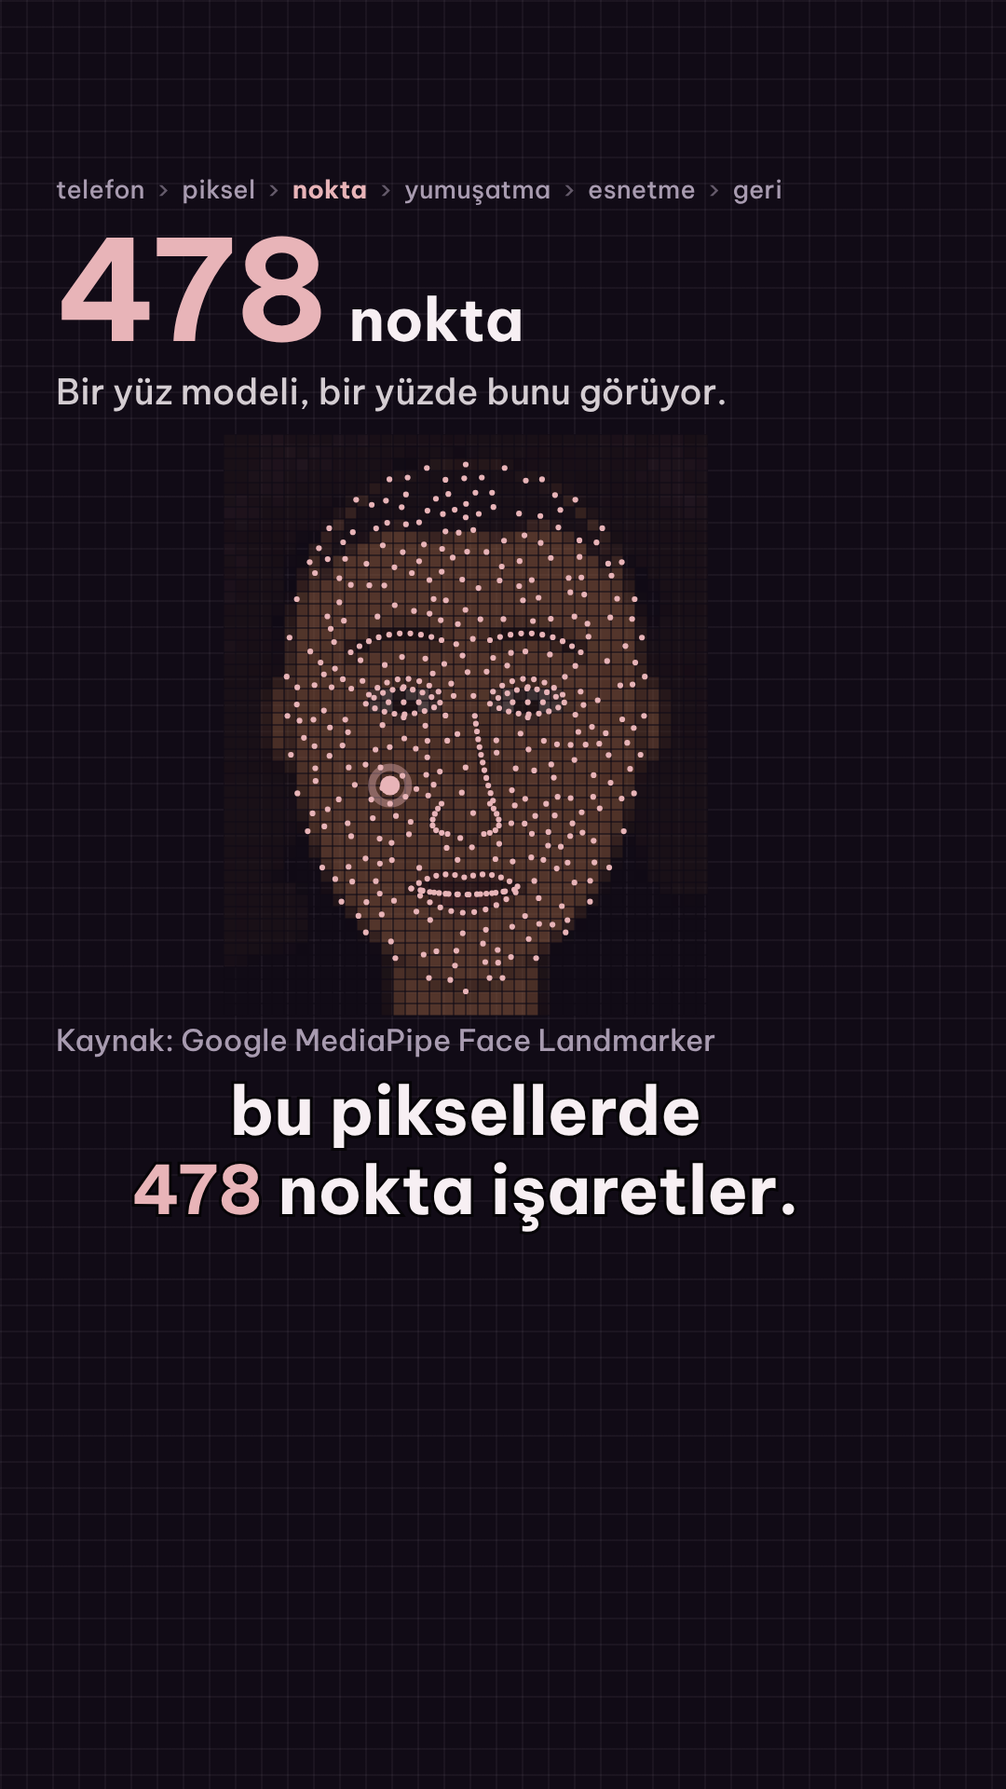
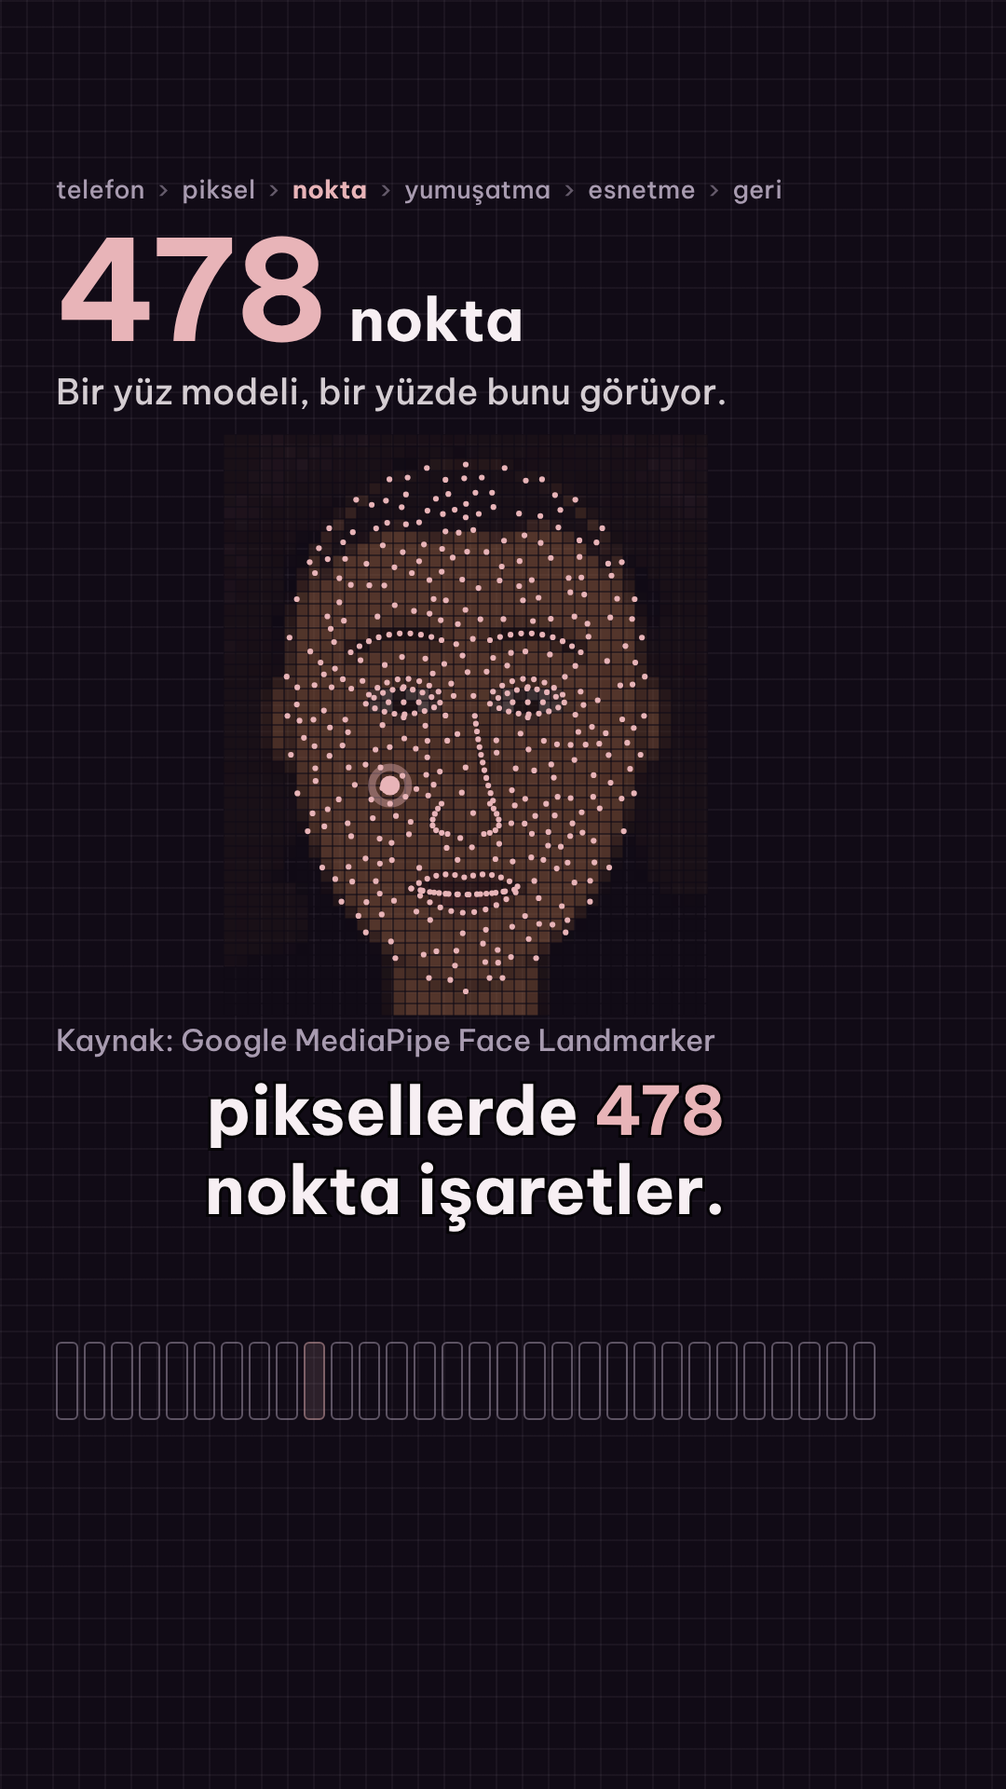
feat(ayna-arkasi): storyboard C
Claude-Session: https://claude.ai/code/session_01BhB2Bpc5Xr1WZ3L1qEmBGW

Changed region(s): [[0.1222, 0.5938, 0.7944, 0.6875], [0.0611, 0.75, 0.8556, 0.8125]]

diff --git a/channels/ayna-arkasi/brand/v2-yonler/src/page.html b/channels/ayna-arkasi/brand/v2-yonler/src/page.html
@@ -1,0 +1,143 @@
+<!doctype html>
+<html lang="tr">
+<head>
+<meta charset="utf-8">
+<title>Ayna Arkası — Yazı yönleri</title>
+<link rel="stylesheet" href="../fonts/fonts.css">
+<style>
+  :root {
+    --pink: #E8B4B8; --plum: #1C1424; --light: #F6E1E3; --berry: #8E3B5A;
+    --paper: #F4F1EE; --muted: rgba(28, 20, 36, .52);
+  }
+  * { box-sizing: border-box; margin: 0; padding: 0; }
+  html, body { background: var(--paper); color: var(--plum); }
+  body { font-family: 'Manrope Variable', sans-serif; -webkit-font-smoothing: antialiased;
+         font-kerning: normal; text-rendering: geometricPrecision; }
+
+  /* ---------- layout: board ---------- */
+  body.board { width: 3000px; height: 2200px; padding: 132px 160px 0; }
+  .board .head { display: flex; justify-content: space-between; align-items: baseline;
+                 font-size: 22px; font-weight: 500; letter-spacing: .01em; color: var(--muted);
+                 margin-bottom: 104px; }
+  .board .head b { font-weight: 600; color: var(--plum); }
+  .board .grid { display: grid; grid-template-columns: repeat(3, 840px); column-gap: 80px; row-gap: 130px; }
+  .board .card { width: 840px; }
+  .board .panels { display: grid; grid-template-rows: 330px 330px; row-gap: 12px; }
+
+  /* ---------- layout: single ---------- */
+  body.single { width: 1600px; height: 1000px; padding: 112px 96px 0; }
+  .single .panels { display: grid; grid-template-columns: 688px 688px; column-gap: 32px; height: 600px; }
+
+  .panel { position: relative; display: flex; align-items: center; justify-content: center; overflow: hidden; }
+  .panel.on-pink { background: var(--pink); color: var(--plum); }
+  .panel.on-plum { background: var(--plum); color: var(--pink); }
+
+  .meta { display: flex; justify-content: space-between; align-items: center; margin-top: 44px; height: 120px; }
+  .single .meta { margin-top: 72px; }
+  .label { font-size: 20px; line-height: 1.55; color: var(--muted); font-weight: 500; letter-spacing: .005em; }
+  .label .no { color: var(--plum); font-weight: 600; font-variant-numeric: tabular-nums; margin-right: 10px; }
+  .label .nm { color: var(--plum); font-weight: 600; }
+  .single .label { font-size: 19px; }
+  .avatars { display: flex; align-items: center; gap: 28px; }
+
+  .avatar { position: relative; border-radius: 50%; background: var(--pink); color: var(--plum);
+            display: flex; align-items: center; justify-content: center; overflow: hidden; }
+  .avatar.s120 { width: 120px; height: 120px; }
+  .avatar.s48 { width: 48px; height: 48px; }
+
+  /* ---------- wordmark core ---------- */
+  .wm { display: block; width: max-content; white-space: nowrap; line-height: 1;
+        letter-spacing: var(--ls, 0); margin-right: calc(-1 * var(--ls, 0)); }
+  .trim-cap { text-box: trim-both cap alphabetic; }
+  .trim-ex  { text-box: trim-both ex alphabetic; }
+
+  /* 01 Lüks minimal */
+  .d1, .a1 { font-family: 'Bodoni Moda Variable', serif; font-weight: 500; }
+  .d1 { --ls: .22em; font-variation-settings: 'opsz' 16; }
+  .a1 { font-variation-settings: 'opsz' 8; font-weight: 540; }
+
+  /* 02 Editoryal */
+  .d2, .a2 { font-family: 'Instrument Serif', serif; font-weight: 400; }
+  .d2 { --ls: -.012em; }
+  .d2 i, .a2 i { font-style: italic; }
+  .a2 { letter-spacing: -.04em; margin-right: .04em; }
+
+  /* 03 Modern sans */
+  .d3, .a3 { font-family: 'Manrope Variable', sans-serif; font-weight: 600; }
+  .d3 { --ls: -.036em; font-weight: 500; }
+  .a3 { font-weight: 500; }
+
+  /* 04 İmza */
+  .d4, .a4 { font-family: 'Allura', cursive; font-weight: 400; }
+  .d4 { --ls: 0em; }
+
+  /* 05 Monogram */
+  .d5 { display: flex; align-items: center; gap: .62em; font-family: 'Josefin Sans Variable', sans-serif; }
+  .d5 .ring { width: 2.05em; height: 2.05em; border-radius: 50%; border: .042em solid currentColor;
+              display: flex; align-items: center; justify-content: center; }
+  .aa { font-family: 'Josefin Sans Variable', sans-serif; font-weight: 300; letter-spacing: -.112em;
+        margin-right: -.112em; line-height: 1; text-box: trim-both cap alphabetic; display: block; }
+  .d5 .aa { font-size: .92em; }
+  .wm5 { font-size: .36em; font-weight: 400; letter-spacing: .34em; margin-right: -.34em;
+         line-height: 1; text-box: trim-both cap alphabetic; display: block; }
+  .a5 { font-family: 'Josefin Sans Variable', sans-serif; }
+  .avatar.ring5::after { content: ''; position: absolute; inset: 9%; border-radius: 50%;
+                         border: var(--rw) solid var(--plum); }
+
+  /* 06 Yumuşak çağdaş */
+  .d6, .a6 { font-family: 'Fraunces Variable', serif; font-weight: 600;
+             font-variation-settings: 'SOFT' 100, 'WONK' 0, 'opsz' 144; }
+  .a6 { font-weight: 620; }
+  .d6 { --ls: -.018em; }
+</style>
+</head>
+<body>
+<script src="directions.js"></script>
+<script>
+  const q = new URLSearchParams(location.search);
+  const single = q.get('d');
+  document.body.className = single ? 'single' : 'board';
+
+  const trimCls = t => t === 'cap' ? 'trim-cap' : t === 'ex' ? 'trim-ex' : '';
+
+  function card(d) {
+    const el = document.createElement('section');
+    el.className = 'card';
+    el.innerHTML = `
+      <div class="panels">
+        <div class="panel on-pink"><div class="wm ${d.cls} ${trimCls(d.trim)}" data-w="${d.width}">${d.html}</div></div>
+        <div class="panel on-plum"><div class="wm ${d.cls} ${trimCls(d.trim)}" data-w="${d.width}">${d.html}</div></div>
+      </div>
+      <div class="meta">
+        <div class="label"><span class="no">${d.no}</span><span class="nm">${d.name}</span><br>${d.font}</div>
+        <div class="avatars">
+          ${[120, 48].map(s => `<div class="avatar s${s} ${d.no === '05' ? 'ring5' : ''}" style="--rw:${Math.max(1, s * 0.016)}px">
+              <div class="wm ${d.avatar.cls} ${trimCls(d.avatar.trim)}" style="font-size:${s * d.avatar.size}px">${d.avatar.html}</div>
+            </div>`).join('')}
+        </div>
+      </div>`;
+    return el;
+  }
+
+  if (single) {
+    document.body.appendChild(card(DIRECTIONS[+single - 1]));
+  } else {
+    document.body.innerHTML += `<header class="head"><span><b>Ayna Arkası</b> &nbsp;·&nbsp; Logo yazı yönleri</span><span>v2 &nbsp;·&nbsp; 6 yön &nbsp;·&nbsp; Kasım 2026</span></header><div class="grid"></div>`;
+    const g = document.querySelector('.grid');
+    DIRECTIONS.forEach(d => g.appendChild(card(d)));
+  }
+
+  // Fit each wordmark to a share of its panel width (measured after fonts load).
+  document.fonts.ready.then(() => {
+    document.querySelectorAll('.panel .wm').forEach(wm => {
+      wm.style.fontSize = '100px';
+      const w = wm.getBoundingClientRect().width;
+      const boost = document.body.classList.contains('single') ? 1.1 : 1;
+      const target = wm.parentElement.clientWidth * parseFloat(wm.dataset.w) * boost;
+      wm.style.fontSize = (100 * target / w) + 'px';
+    });
+    document.body.dataset.ready = '1';
+  });
+</script>
+</body>
+</html>

diff --git a/channels/ayna-arkasi/videos/001-filtre/storyboards/C/src/sheet.html b/channels/ayna-arkasi/videos/001-filtre/storyboards/C/src/sheet.html
@@ -1,0 +1,50 @@
+<!doctype html><html lang="tr"><head><meta charset="utf-8"><title>C · storyboard</title>
+<link rel="stylesheet" href="../../../../../brand/brand.css">
+<style>
+*{box-sizing:border-box;margin:0;padding:0}
+body{width:2360px;background:var(--plum);color:var(--ink);font-family:"Be Vietnam Pro",sans-serif;padding:56px 40px 48px}
+h1{font:700 52px/1.2 "Be Vietnam Pro";margin-bottom:10px}
+h1 span{color:var(--toz-pembe)}
+.sub{font:500 28px/1.4 "Be Vietnam Pro";color:var(--muted);margin-bottom:40px}
+.sub b{color:var(--ink);font-weight:700}
+.row{display:flex;gap:40px}
+.col{width:540px}
+.col img{width:540px;height:960px;display:block;border-radius:18px;box-shadow:0 0 0 2px rgba(232,180,184,.25)}
+.num{display:flex;align-items:center;gap:14px;margin:24px 0 10px}
+.num i{font-style:normal;width:48px;height:48px;border-radius:50%;background:var(--toz-pembe);color:var(--plum);font:700 26px/48px "Be Vietnam Pro";text-align:center}
+.num span{font:700 30px "Be Vietnam Pro";color:var(--gold)}
+.t{font:700 32px/1.25 "Be Vietnam Pro";margin-bottom:10px}
+.w{font:500 24px/1.45 "Be Vietnam Pro";color:#D9CCDA;margin-bottom:14px;min-height:140px}
+.v{font:500 25px/1.45 "Be Vietnam Pro";color:var(--toz-pembe);border-left:4px solid var(--toz-pembe);padding-left:16px;margin-bottom:12px;min-height:150px}
+.v small{display:block;font:700 19px "Be Vietnam Pro";letter-spacing:.08em;color:var(--muted);margin-bottom:4px}
+.s{font:500 21px/1.4 "Be Vietnam Pro";color:var(--muted)}
+.foot{margin-top:40px;padding-top:24px;border-top:2px solid rgba(168,155,176,.25);font:500 23px/1.6 "Be Vietnam Pro";color:var(--muted)}
+.foot b{color:var(--ink)}
+</style></head><body>
+<h1>Ayna Arkası · 001 · Hikâye C: <span>"Bir selfie'nin 33 milisaniyesi"</span></h1>
+<div class="sub"><b>Sonsuz zoom:</b> telefon → piksel → nokta → yumuşatma → esnetme → geri · 1080×1920 · ~34 sn · tek toz pembe nokta her katmanda taşıyıcı · zemin: erik → koyu → açık toz pembe → erik</div>
+<div class="row">
+ <div class="col"><img src="../f1.png"><div class="num"><i>1</i><span>0:00–0:06 · kanca</span></div>
+  <div class="t">Telefon, selfie ve "33 ms"</div>
+  <div class="w">Telefon ekranında çizgi-portre. Köşede "33&nbsp;ms" rozeti belirir, yanaktaki toz pembe nokta zoom'un hedefini gösterir. Hesap satırı: bu bir ölçüm değil, aritmetik.</div>
+  <div class="v"><small>SESLENDİRME</small>"Saniyede 30 kare demek, her kare için yaklaşık 33 milisaniye demek. Filtre bütün işini bu sürenin içine sığdırmak zorunda."</div>
+  <div class="s">Ses: yok (ilk karede hareket: rozet + nokta nabzı)</div></div>
+ <div class="col"><img src="../f2.png"><div class="num"><i>2</i><span>0:08–0:15 · zoom 1–2</span></div>
+  <div class="t">Piksel dünyası → 478 nokta</div>
+  <div class="w">Kamera noktaya dalar. Selfie piksellere ayrılır, üstüne 478 toz pembe nokta yayılır, sayaç 0'dan 478'e koşar. Zemin bir ton koyulaşır.</div>
+  <div class="v"><small>SESLENDİRME</small>"Yakından bakalım: selfie aslında piksellerden oluşur. Bir yüz modeli bu piksellerde 478 nokta işaretler."</div>
+  <div class="s">Ses: whoosh-cinematic (piksele dalış) · kaynak: Google MediaPipe</div></div>
+ <div class="col"><img src="../f3.png"><div class="num"><i>3</i><span>0:16–0:25 · anahtar an</span></div>
+  <div class="t">Yumuşatma geçer, ızgara esner</div>
+  <div class="w">Zemin açık toz pembeye döner. Yumuşatma penceresi yanaktan geçer, arkasında doku kalmaz. Ardından ızgara göz çevresinde esner (nötr oklar, ödül efekti yok).</div>
+  <div class="v"><small>SESLENDİRME</small>"Küçük bir yumuşatma penceresi cildin üstünden geçer. Gözenekler, çiller, ince tüyler, hepsi silinir. Sonra noktalar kaydırılır, görüntü esner: gözler büyür, çene daralır."</div>
+  <div class="s">Ses: whoosh-cinematic (açık zemine geçiş) · kaynak: Tomasi &amp; Manduchi 1998; Schaefer vd. 2006; US 10152778</div></div>
+ <div class="col"><img src="../f4.png"><div class="num"><i>4</i><span>0:26–0:34 · geri çekilme</span></div>
+  <div class="t">Telefona dönüş, kanalın cümlesi</div>
+  <div class="w">Kamera telefona geri çekilir. Yüz filtresiz ve dokusuyla ("Filtresiz", nane). Alttaki 30 kare dolar. "Ayna Arkası" yazısı (logo yok, taslak).</div>
+  <div class="v"><small>SESLENDİRME</small>"Ve bunu saniyede 30 kez, her karede yeniden yapar. Filtredeki yüz, hesaplanmış bir yüz. Gerçek ciltte doku vardır, olmalı da."</div>
+  <div class="s">Ses: whoosh (geri) + chime · "Kaynaklar açıklamada"</div></div>
+</div>
+<div class="foot"><b>Uyum (UYUM-INCELEMESI C-1…C-6):</b> kanca düzeltildi, 33 ms ekranda "hesap" olarak yazılı · kanalın ana cümlesi kapanışta · "çekirdek" yerine "yumuşatma" · ışık/ten rengi adımı yok (G-03) · yüzler çizim, gerçek kişi ya da AI yüz yok (G-02) · uygulama adı yok · efekt toplam 4: 3 whoosh + 1 chime (04-kurgu) · zemin geçişleri ≥ 300 ms (O-9).<br>
+<b>Güvenli alan:</b> tüm yazı y 168–1330 ve x 60–940 içinde, sağ 140 px boş · 1330 altı yalnızca dekor (30 kare şeridi) · açık zeminde altyazı erik hap içinde (Kanal B kontur kuralına öneri).</div>
+</body></html>

diff --git a/channels/ayna-arkasi/videos/001-filtre/storyboards/C/src/f4.html b/channels/ayna-arkasi/videos/001-filtre/storyboards/C/src/f4.html
@@ -1,0 +1,28 @@
+<!doctype html><html lang="tr"><head><meta charset="utf-8"><title>C · f4 geri çekilme ve kapanış</title>
+<link rel="stylesheet" href="common.css"><script src="face.js"></script>
+<style>
+.line{position:absolute;left:60px;top:246px;width:880px;font:700 58px/1.2 "Be Vietnam Pro";color:var(--ink)}
+.line em{font-style:normal;color:var(--toz-pembe)}
+.trail{position:absolute;left:500px;top:655px;border:2px solid rgba(232,180,184,.16);border-radius:64px;transform:translate(-50%,-50%)}
+.phone{position:absolute;left:360px;top:420px;width:280px;height:470px;border-radius:44px;background:#0E0912;border:3px solid rgba(232,180,184,.5);box-shadow:0 30px 80px rgba(0,0,0,.5)}
+.screen{position:absolute;left:12px;top:12px;right:12px;bottom:12px;border-radius:34px;overflow:hidden;background:#2A2033}
+.notch{position:absolute;left:50%;top:10px;width:60px;height:16px;margin-left:-30px;border-radius:9px;background:#0E0912;z-index:3}
+.mint{position:absolute;left:24px;top:40px;z-index:4;font:700 24px "Be Vietnam Pro";color:var(--plum);background:var(--mint);padding:3px 12px 5px;border-radius:16px}
+.word{position:absolute;left:60px;top:930px;width:880px;text-align:center;font:700 104px/1.1 "Charm";color:var(--toz-pembe)}
+.more{position:absolute;left:60px;top:1074px;width:880px;text-align:center;font:500 32px "Be Vietnam Pro";color:var(--muted)}
+.shutter{position:absolute;left:50%;bottom:22px;width:46px;height:46px;margin-left:-23px;border-radius:50%;border:4px solid var(--ink);z-index:4;opacity:.9}
+.strip i{border-color:var(--toz-pembe)}
+</style></head><body><div class="frame">
+<div class="crumbs">telefon<i>›</i>piksel<i>›</i>nokta<i>›</i>yumuşatma<i>›</i>esnetme<i>›</i><b>geri</b></div>
+<div class="line">Saniyede <em>30 kez</em>,<br>her karede yeniden.</div>
+<div class="trail" style="width:400px;height:520px;border-color:rgba(232,180,184,.18)"></div>
+<div class="trail" style="width:336px;height:500px;border-color:rgba(232,180,184,.3)"></div>
+<div class="phone"><div class="screen" id="scr"></div><div class="notch"></div><div class="mint">Filtresiz</div><div class="shutter"></div></div>
+<div class="word">Ayna Arkası</div>
+<div class="more">Kaynaklar açıklamada</div>
+<div class="strip" id="strip"></div>
+<script>let h='';for(let i=0;i<30;i++)h+='<i class="cur"></i>';document.getElementById('strip').innerHTML=h;</script>
+<div class="cap"><div>Gerçek ciltte <span class="on">doku</span></div><div>vardır, olmalı da.</div></div>
+</div>
+<script>document.getElementById('scr').innerHTML=faceSVG({w:250,h:440,viewBox:'40 40 320 563',lineW:5,extra:'<circle cx="150" cy="284" r="9" fill="#E8B4B8"/><circle cx="150" cy="284" r="16" fill="none" stroke="#E8B4B8" stroke-opacity=".35" stroke-width="5"/>'});</script>
+</body></html>

diff --git a/channels/ayna-arkasi/videos/001-filtre/storyboards/C/src/f3.html b/channels/ayna-arkasi/videos/001-filtre/storyboards/C/src/f3.html
@@ -8,8 +8,7 @@ html,body,.frame{background:var(--toz-pembe-acik)}
 .lab{position:absolute;top:1004px;font:700 30px "Be Vietnam Pro";color:var(--berry)}
 .light .src{font-size:29px;line-height:1.3}
 .cap{-webkit-text-stroke:0;gap:0}
-.cap div{background:rgba(28,20,36,.92);padding:0 26px;border-radius:24px;line-height:1.12}
-.cap div:first-child{border-radius:24px 24px 0 0;padding-top:6px}.cap div:last-child{border-radius:0 0 24px 24px;padding-bottom:10px}
+.cap .pill{background:rgba(28,20,36,.92);padding:6px 34px 12px;border-radius:28px;line-height:1.14}
 .ring{position:absolute;inset:-60px;border:2px solid rgba(142,59,90,.18);border-radius:80px}
 </style></head><body><div class="frame light">
 <div class="crumbs">telefon<i>›</i>piksel<i>›</i>nokta<i>›</i><b>yumuşatma</b><i>›</i>esnetme<i>›</i>geri</div>
@@ -18,7 +17,9 @@ html,body,.frame{background:var(--toz-pembe-acik)}
 <div class="lab" style="left:60px">← doku silindi</div>
 <div class="lab" style="left:560px;width:380px;text-align:right">doku henüz duruyor →</div>
 <div class="src" style="top:1052px">Yumuşatma · Kaynak: Tomasi &amp; Manduchi 1998<br>Esnetme (warp) · Kaynak: Schaefer vd. 2006; US 10152778</div>
-<div class="cap"><div>ince tüyler,</div><div>hepsi <span class="on">silinir.</span></div></div>
+<div class="strip" id="strip"></div>
+<script>(function(n){let h="";for(let i=0;i<30;i++)h+="<i"+(i<=n&&i>=n?" class=\"cur\"":"")+"></i>";document.getElementById("strip").innerHTML=h})(17)</script>
+<div class="cap"><div class="pill">ince tüyler,<br>hepsi <span class="on">silinir.</span></div></div>
 </div>
 <script>
 const BX=166; // pencerenin geçtiği sınır (yüz koordinatı)

diff --git a/channels/ayna-arkasi/brand/v2-yonler/src/directions.js b/channels/ayna-arkasi/brand/v2-yonler/src/directions.js
@@ -12,8 +12,8 @@ const DIRECTIONS = [
   {
     no: '02', name: 'Editoryal', font: 'Instrument Serif',
     cls: 'd2', width: 0.64, trim: 'cap',
-    html: `Ayna <i>Arkası</i>`,
-    avatar: { html: 'A<i>a</i>', cls: 'a2', size: 0.56, trim: 'cap' },
+    html: `Ayna${k(" ", 0.07)}<i>Arkası</i>`,
+    avatar: { html: 'A<i>a</i>', cls: 'a2', size: 0.62, trim: 'cap' },
   },
   {
     no: '03', name: 'Modern sans', font: 'Manrope',
@@ -31,12 +31,12 @@ const DIRECTIONS = [
     no: '05', name: 'Monogram', font: 'Josefin Sans',
     cls: 'd5', width: 0.66, trim: 'none',
     html: `<span class="ring"><span class="aa">AA</span></span><span class="wm5">AYNA ARKASI</span>`,
-    avatar: { html: '<span class="aa">AA</span>', cls: 'a5', size: 0.40, trim: 'cap' },
+    avatar: { html: '<span class="aa">AA</span>', cls: 'a5', size: 0.44, trim: 'cap' },
   },
   {
     no: '06', name: 'Yumuşak çağdaş', font: 'Fraunces (Soft)',
-    cls: 'd6', width: 0.60, trim: 'ex',
-    html: `ayna arkası`,
-    avatar: { html: 'a', cls: 'a6', size: 0.66, trim: 'ex' },
+    cls: 'd6', width: 0.62, trim: 'cap',
+    html: `Ayna Arkası`,
+    avatar: { html: 'A', cls: 'a6', size: 0.56, trim: 'cap' },
   },
 ];

diff --git a/channels/ayna-arkasi/brand/v2-yonler/src/render.js b/channels/ayna-arkasi/brand/v2-yonler/src/render.js
@@ -1,0 +1,24 @@
+// Render: node render.js   (playwright gerekli; NODE_PATH ile verilebilir)
+const { chromium } = require('playwright');
+const path = require('path');
+
+const SRC = __dirname;
+const OUT = path.resolve(SRC, '..');
+const page = 'file://' + path.join(SRC, 'page.html');
+
+(async () => {
+  const browser = await chromium.launch();
+  const jobs = [{ q: '', out: 'yonler.png', w: 3000, h: 2200 }];
+  for (let i = 1; i <= 6; i++) jobs.push({ q: `?d=${i}`, out: `0${i}.png`, w: 1600, h: 1000 });
+  for (const j of jobs) {
+    const p = await browser.newPage({ viewport: { width: j.w, height: j.h }, deviceScaleFactor: 1 });
+    await p.goto(page + j.q);
+    await p.evaluate(() => document.fonts.ready);
+    await p.waitForFunction(() => document.body.dataset.ready === '1');
+    await p.waitForTimeout(200);
+    await p.screenshot({ path: path.join(OUT, j.out) });
+    await p.close();
+    console.log('ok', j.out);
+  }
+  await browser.close();
+})();

diff --git a/channels/ayna-arkasi/videos/001-filtre/storyboards/C/src/f2.html b/channels/ayna-arkasi/videos/001-filtre/storyboards/C/src/f2.html
@@ -17,7 +17,9 @@ html,body,.frame{background:#110B16}
 <div class="sub">Bir yüz modeli, bir yüzde bunu görüyor.</div>
 <div class="stage"><canvas id="px" width="520" height="624"></canvas><svg id="pts" viewBox="40 52 320 384"></svg></div>
 <div class="src" style="top:1096px">Kaynak: Google MediaPipe Face Landmarker</div>
-<div class="cap"><div>bu piksellerde</div><div><span class="on">478</span> nokta işaretler.</div></div>
+<div class="strip" id="strip"></div>
+<script>(function(n){let h="";for(let i=0;i<30;i++)h+="<i"+(i<=n&&i>=n?" class=\"cur\"":"")+"></i>";document.getElementById("strip").innerHTML=h})(9)</script>
+<div class="cap"><div>piksellerde <span class="on">478</span></div><div>nokta işaretler.</div></div>
 </div>
 <script>
 const VB=[40,52,320,384];

diff --git a/channels/ayna-arkasi/videos/001-filtre/storyboards/C/src/f1.html b/channels/ayna-arkasi/videos/001-filtre/storyboards/C/src/f1.html
@@ -15,9 +15,6 @@
 .reticle::before,.reticle::after{content:"";position:absolute;background:var(--toz-pembe)}
 .zoomhint{position:absolute;left:520px;top:900px;width:0;height:0}
 .ticks{position:absolute;left:60px;top:1110px;width:880px;height:0}
-.strip{position:absolute;left:60px;top:1440px;width:880px;display:flex;gap:6px;opacity:.5}
-.strip i{flex:1;height:84px;border:2px solid var(--muted);border-radius:6px}
-.strip i.cur{border-color:var(--toz-pembe);background:rgba(232,180,184,.25)}
 .striplab{position:absolute;left:60px;top:1540px;font:500 26px "Be Vietnam Pro";color:var(--muted);opacity:.6}
 </style></head><body><div class="frame">
 <div class="crumbs"><b>telefon</b><i>›</i>piksel<i>›</i>nokta<i>›</i>yumuşatma<i>›</i>esnetme<i>›</i>geri</div>

diff --git a/channels/ayna-arkasi/videos/001-filtre/storyboards/C/src/common.css b/channels/ayna-arkasi/videos/001-filtre/storyboards/C/src/common.css
@@ -21,3 +21,7 @@ html,body{width:1080px;height:1920px;overflow:hidden;background:var(--plum)}
 .guides{position:absolute;inset:0;pointer-events:none}
 .guides .band{position:absolute;left:0;right:0;top:168px;height:1162px;outline:2px dashed #0f0}
 .guides .rail{position:absolute;right:0;top:0;width:140px;height:1920px;background:rgba(255,0,0,.18)}
+.strip{position:absolute;left:60px;top:1440px;width:880px;display:flex;gap:6px;opacity:.5}
+.strip i{flex:1;height:84px;border:2px solid var(--muted);border-radius:6px}
+.strip i.cur{border-color:var(--toz-pembe);background:rgba(232,180,184,.25)}
+.light .strip i{border-color:#B79AAE}.light .strip i.cur{border-color:var(--berry);background:rgba(142,59,90,.2)}

diff --git a/channels/ayna-arkasi/videos/001-filtre/storyboards/C/src/sheet.js b/channels/ayna-arkasi/videos/001-filtre/storyboards/C/src/sheet.js
@@ -1,0 +1,4 @@
+const {chromium}=require('playwright');const path=require('path');
+(async()=>{const b=await chromium.launch();const p=await b.newPage({viewport:{width:2360,height:1000}});
+await p.goto('file://'+path.resolve(__dirname,'sheet.html'));await p.evaluate(()=>document.fonts.ready);await p.waitForTimeout(300);
+await p.screenshot({path:path.resolve(__dirname,'../storyboard.png'),fullPage:true});await b.close();})();
